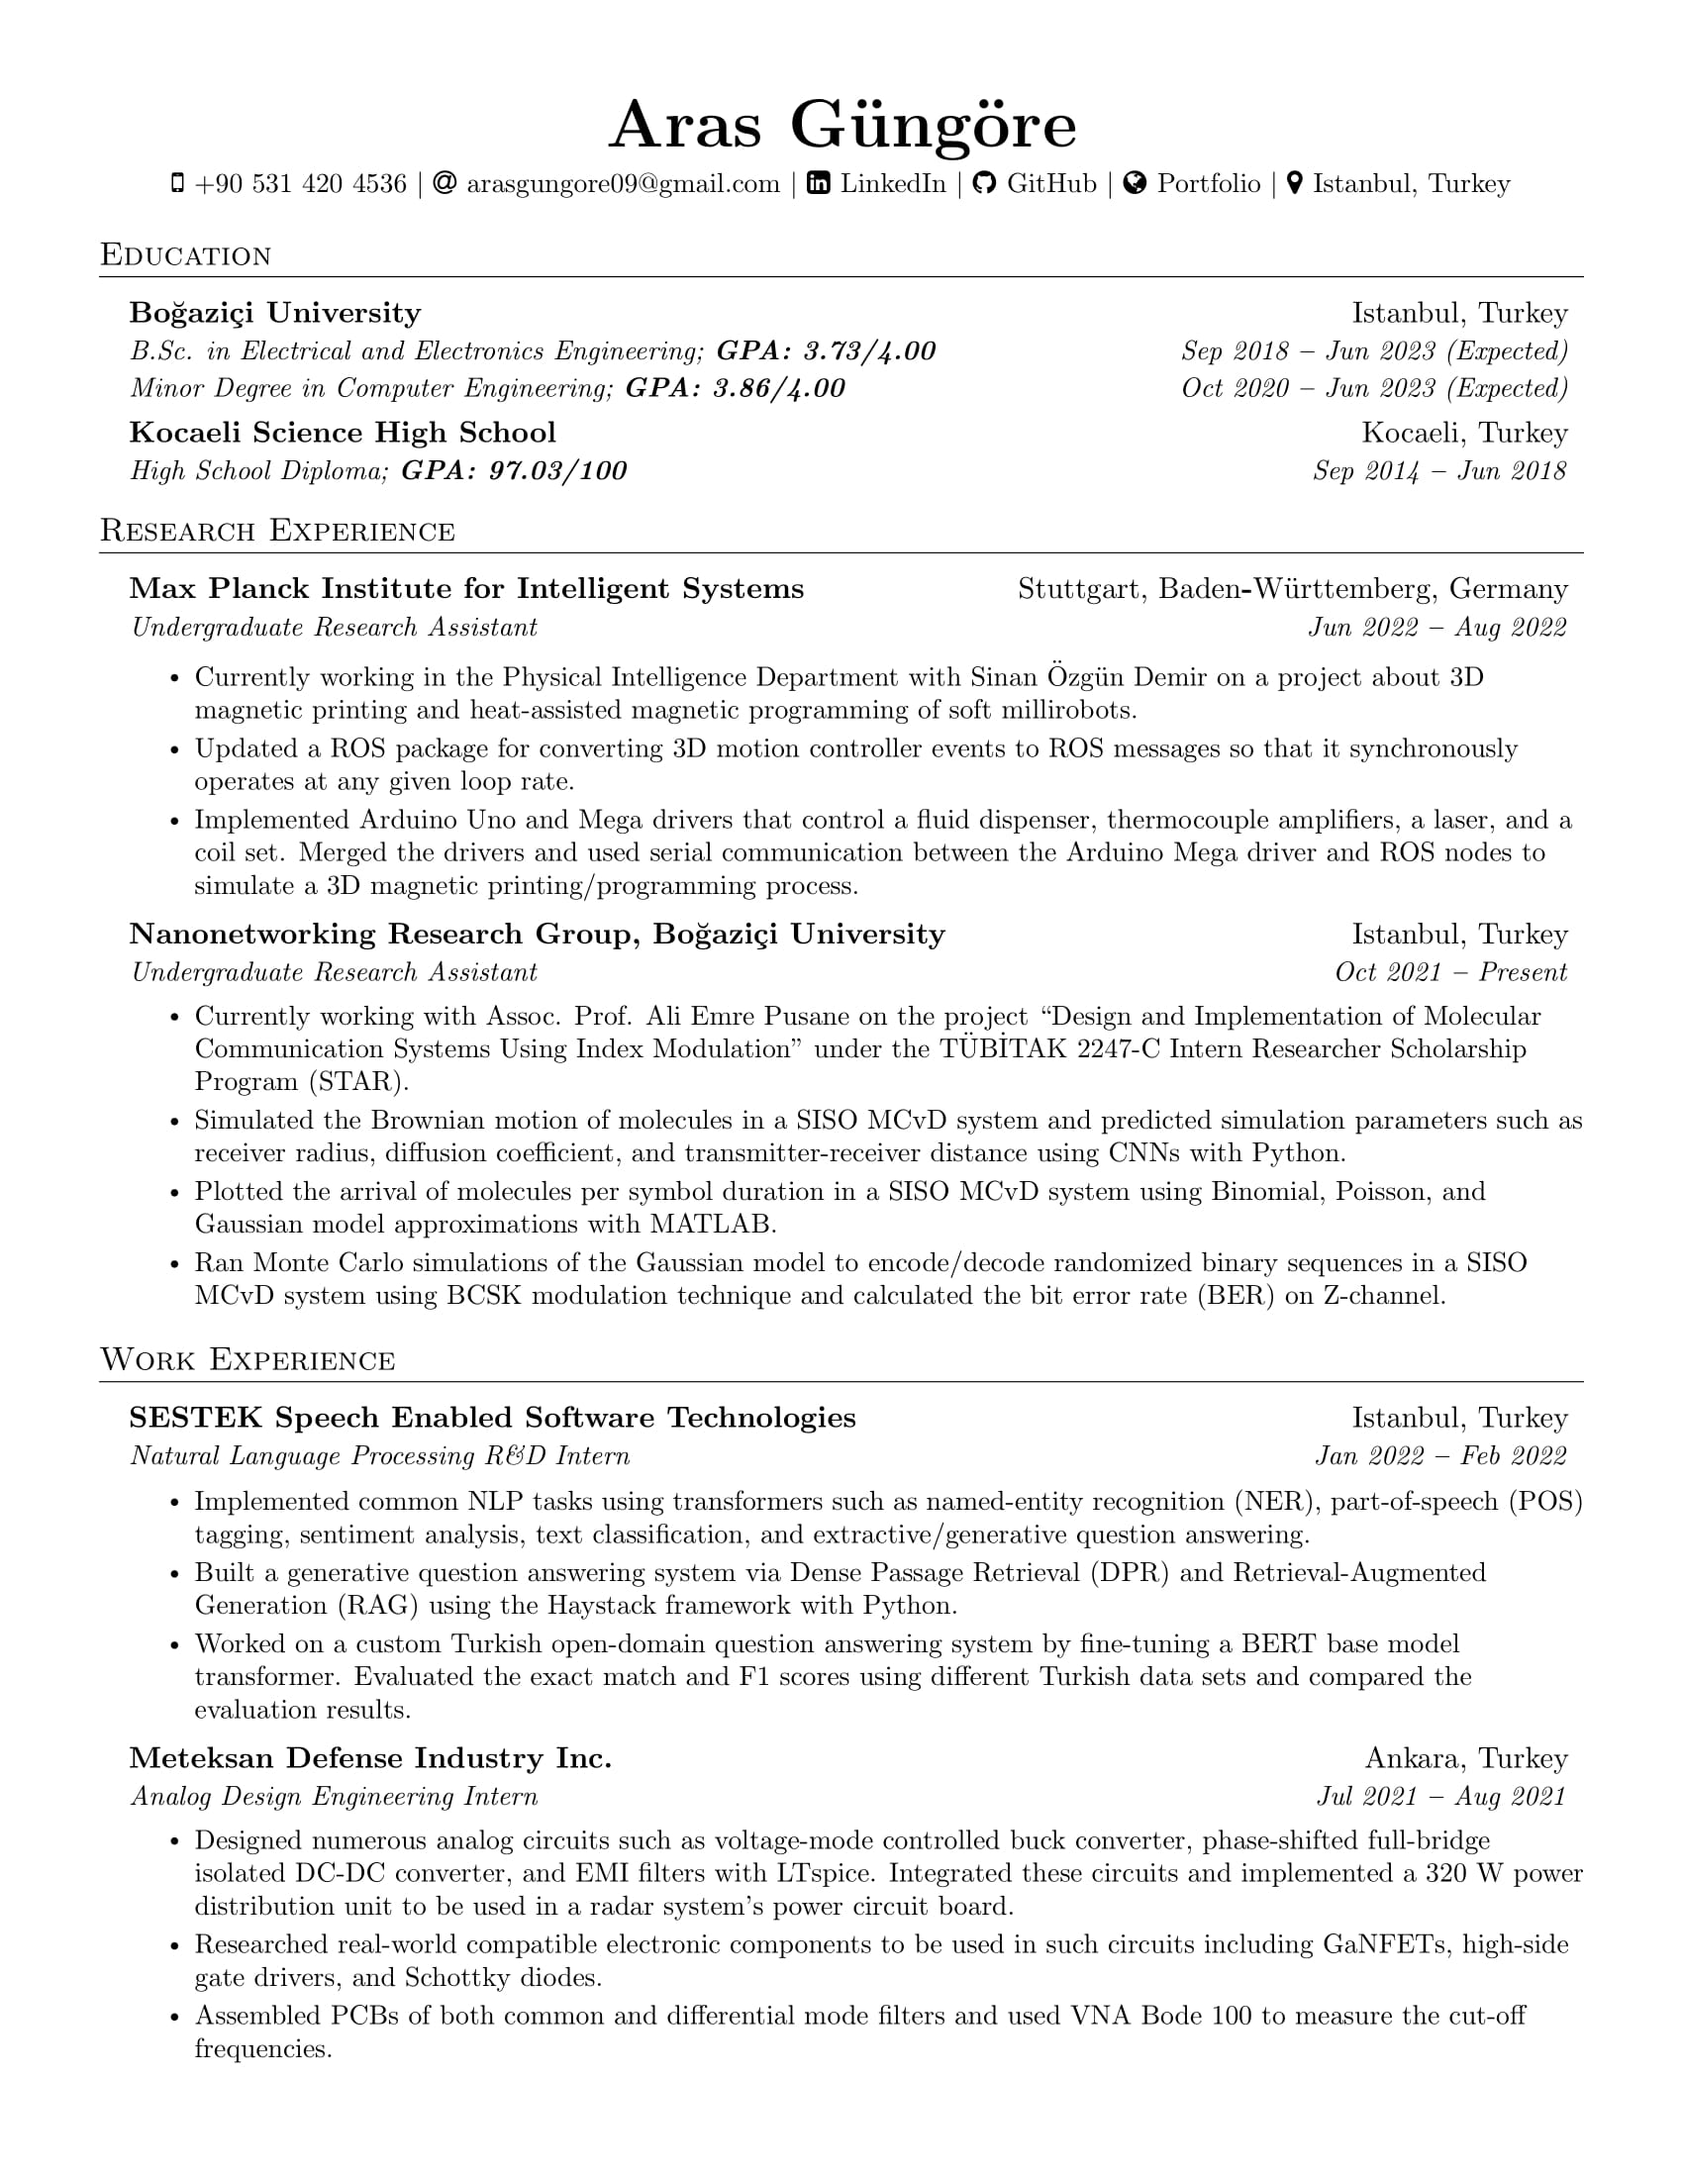
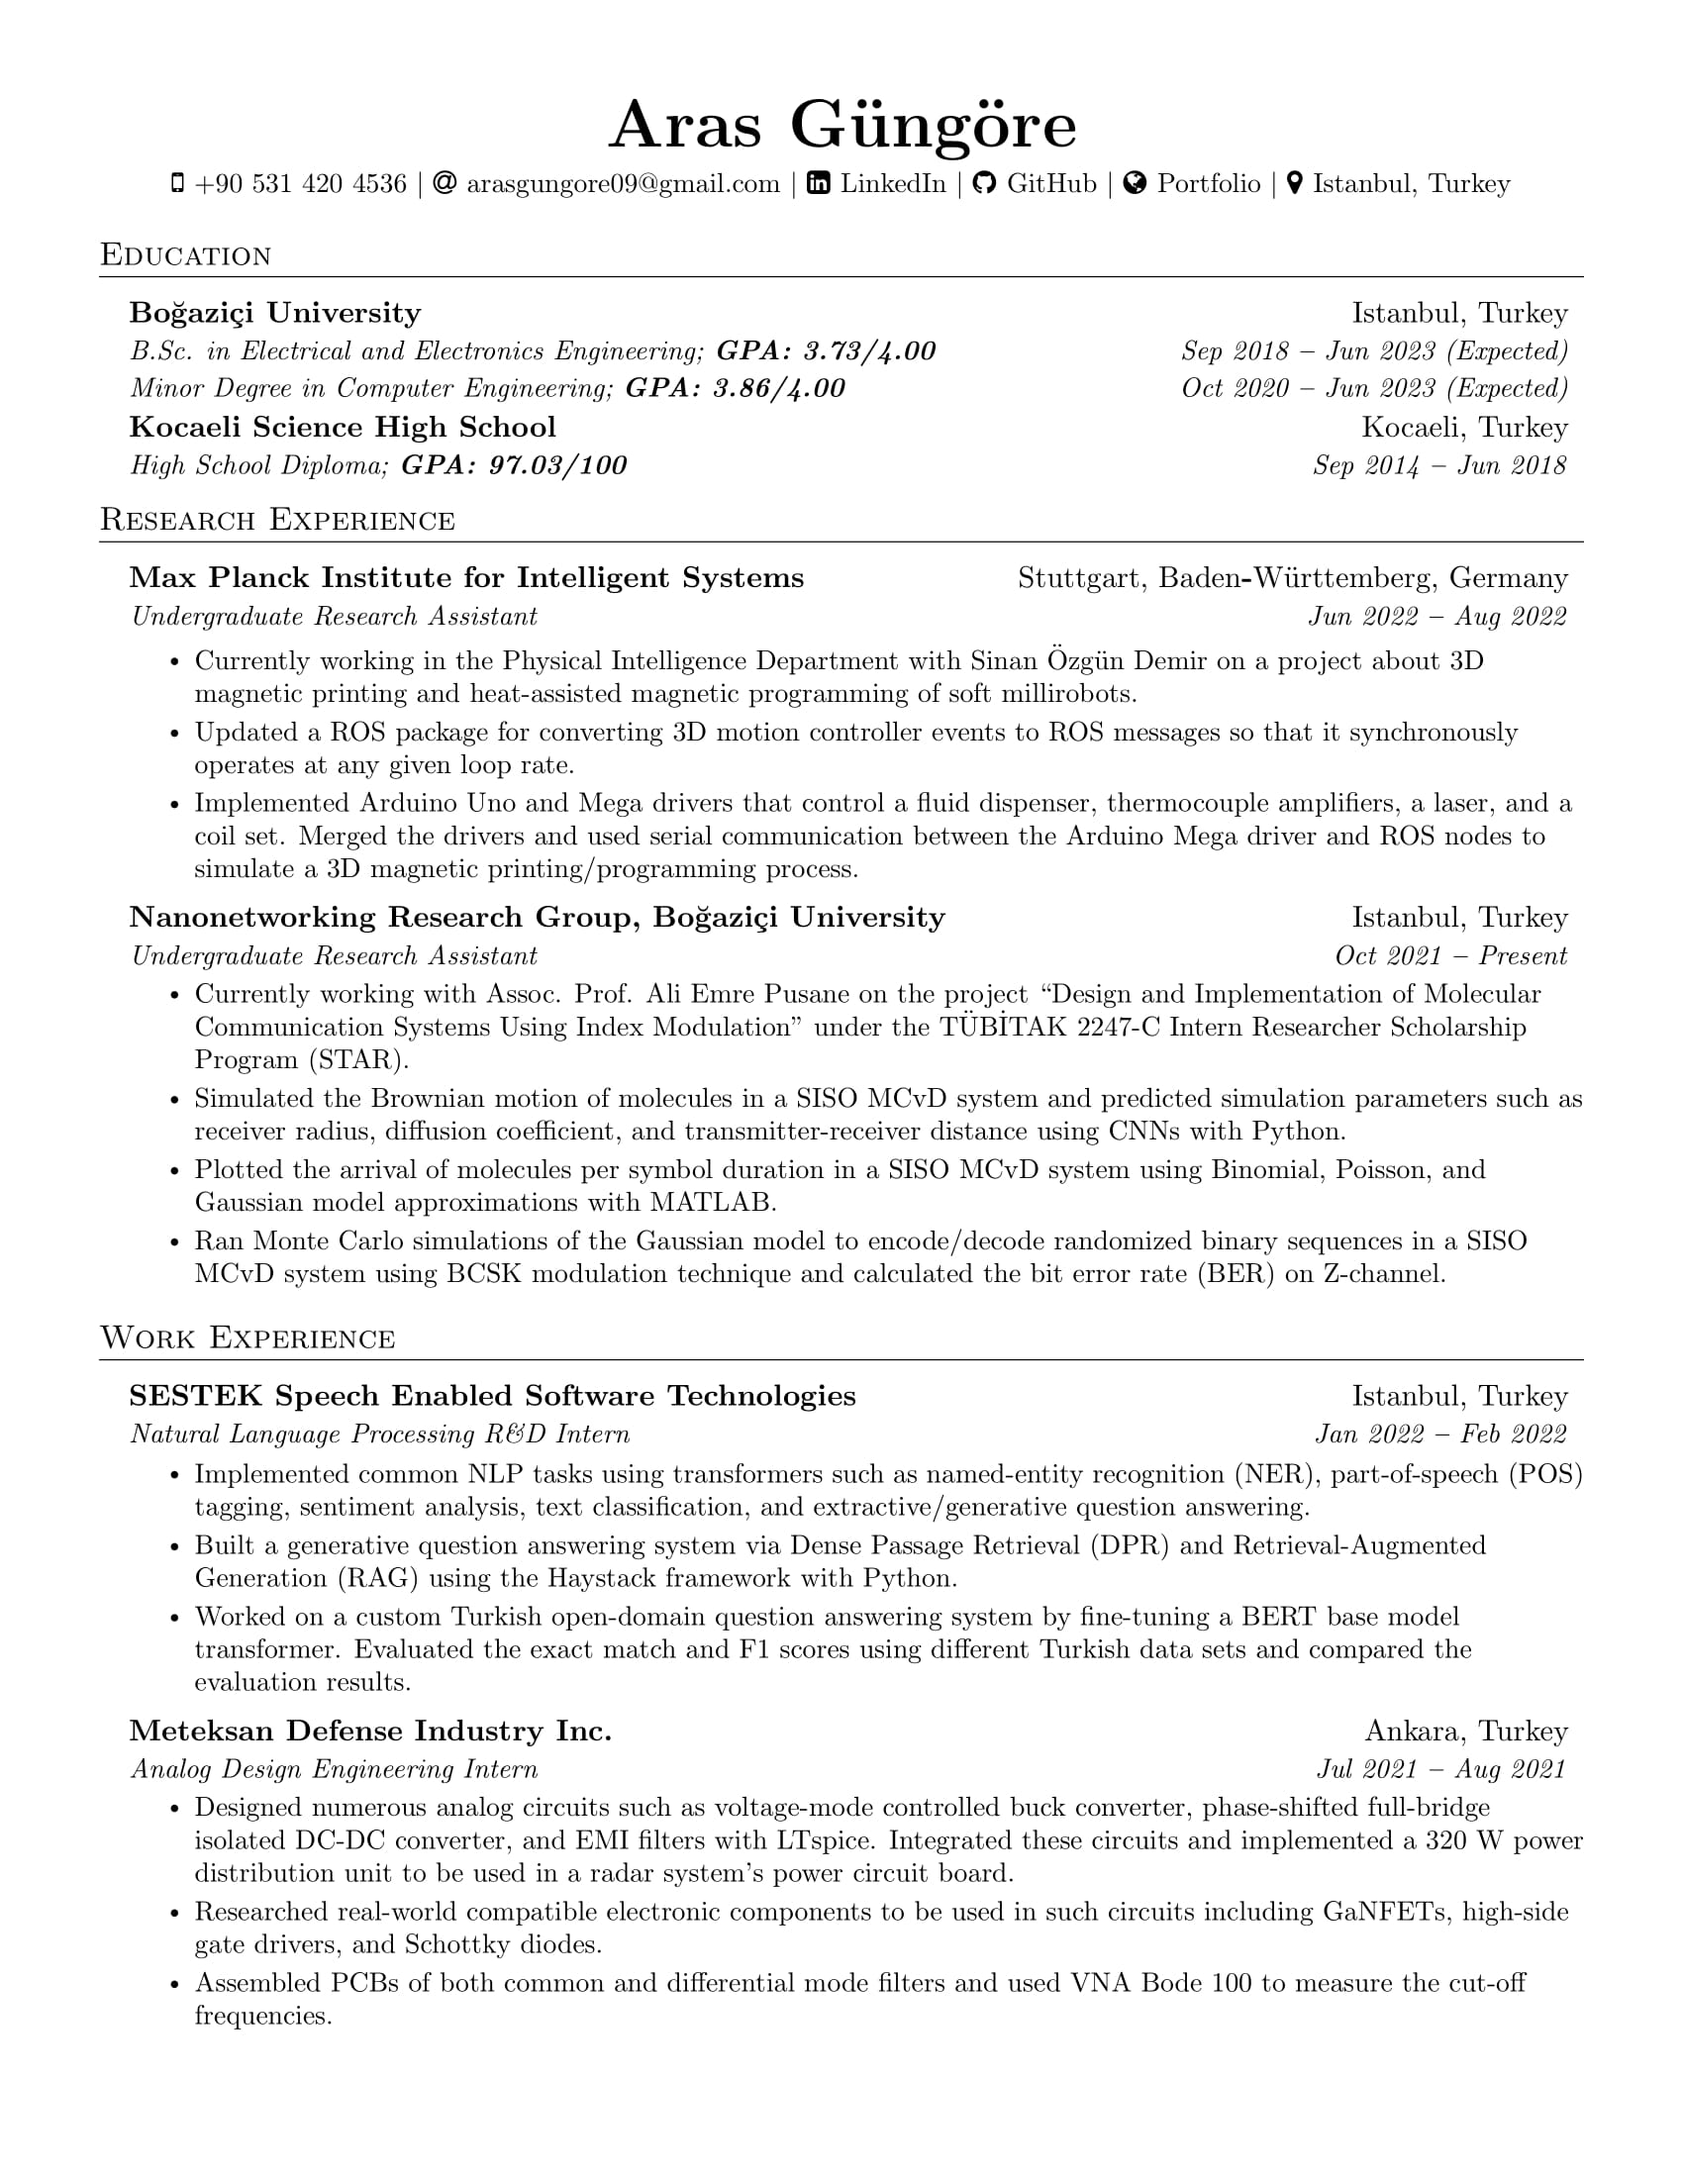
Adjusted vertical spacings

Changed region(s): [[0.0624, 0.1855, 0.9353, 0.9582], [0.8106, 0.1855, 0.9353, 0.2164]]

diff --git a/main.tex b/main.tex
@@ -76,7 +76,7 @@
     \begin{tabular*}{0.97\textwidth}[t]{l@{\extracolsep{\fill}}r}
       \textbf{#1} & #2 \\
       \textit{\small#3} & \textit{\small #4} \\
-    \end{tabular*}\vspace{-5pt}
+    \end{tabular*}\vspace{-7pt}
 }
 
 
@@ -84,7 +84,7 @@
     \vspace{-2pt}\item
     \begin{tabular*}{0.97\textwidth}{l@{\extracolsep{\fill}}r}
       \textit{\small#1} & \textit{\small #2} \\
-    \end{tabular*}\vspace{-5pt}
+    \end{tabular*}\vspace{-7pt}
 }
 
 
@@ -94,7 +94,7 @@
       \textbf{#1} & #2 \\
       \textit{\small#3} & \textit{\small #4} \\
       \textit{\small#5} & \textit{\small #6} \\
-    \end{tabular*}\vspace{-5pt}
+    \end{tabular*}\vspace{-7pt}
 }
 
 
@@ -102,7 +102,7 @@
     \vspace{-2pt}\item
     \begin{tabular*}{0.97\textwidth}{l@{\extracolsep{\fill}}r}
       \small#1 & #2 \\
-    \end{tabular*}\vspace{-5pt}
+    \end{tabular*}\vspace{-7pt}
 }
 
 
@@ -111,7 +111,7 @@
     \begin{tabular*}{0.97\textwidth}[t]{l@{\extracolsep{\fill}}r}
       \textbf{#1} & \textit{\small #2} \\
       \textit{\small#3}
-    \end{tabular*}\vspace{-5pt}
+    \end{tabular*}\vspace{-7pt}
 }
 
 \newcommand{\resumeSubItem}[1]{\resumeItem{#1}\vspace{-4pt}}
